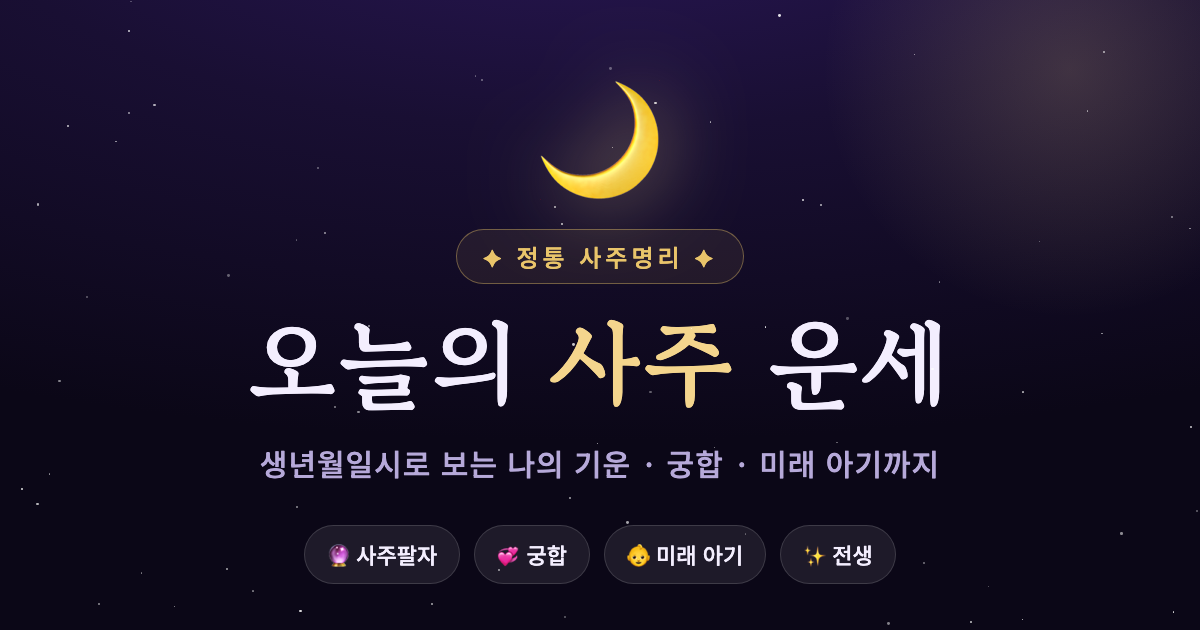
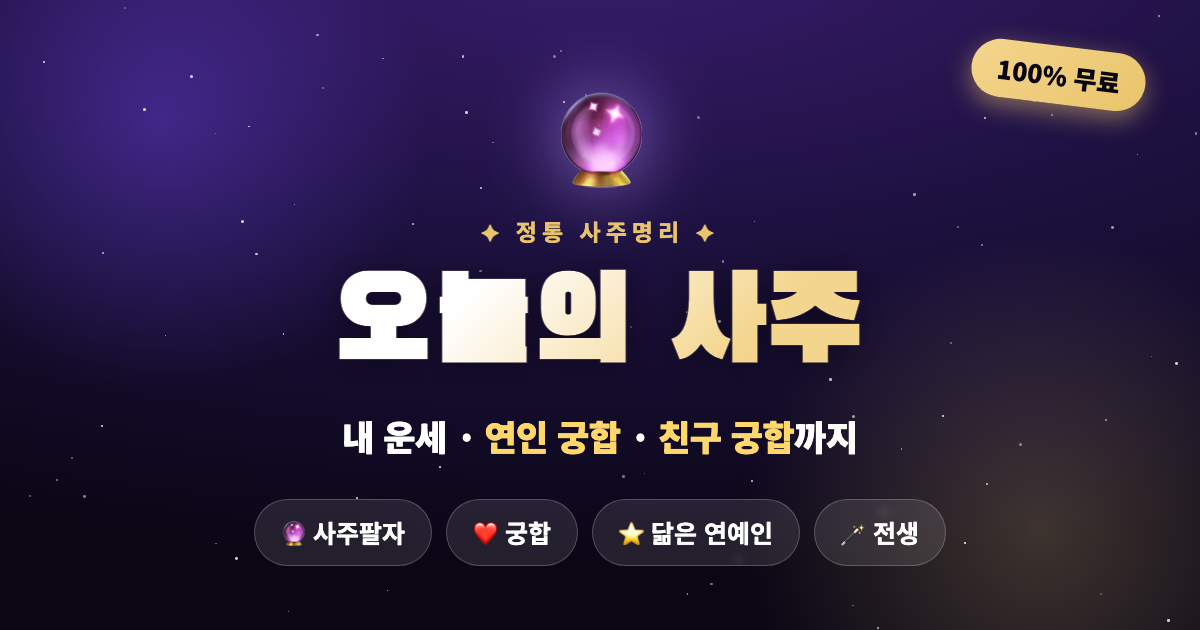
친구 궁합 추가 + 썸네일 리뉴얼
- 궁합에 연인/친구 선택 토글 추가 (친구는 우정 점수·함께할 활동, 아기/데이트 제외)
- 공유 썸네일을 더 임팩트 있게 재디자인 + 아기 문구 제거

diff --git a/index.html b/index.html
@@ -11,7 +11,7 @@
 <meta property="og:site_name" content="오늘의 사주 운세" />
 <meta property="og:title" content="오늘의 사주 운세 🌙 사주·궁합·미래 아기까지" />
 <meta property="og:description" content="생년월일시로 보는 정통 사주! 나의 기운, 연인 궁합, 결혼하면 낳을 아기 성격과 이름까지 무료로 확인하세요." />
-<meta property="og:image" content="https://hwangbbi7262-png.github.io/saju-fortune/og.png?v=1" />
+<meta property="og:image" content="https://hwangbbi7262-png.github.io/saju-fortune/og.png?v=2" />
 <meta property="og:image:width" content="1200" />
 <meta property="og:image:height" content="630" />
 <meta property="og:url" content="https://hwangbbi7262-png.github.io/saju-fortune/" />
@@ -20,7 +20,7 @@
 <meta name="twitter:card" content="summary_large_image" />
 <meta name="twitter:title" content="오늘의 사주 운세 🌙 사주·궁합·미래 아기까지" />
 <meta name="twitter:description" content="생년월일시로 보는 정통 사주! 나의 기운, 궁합, 미래 아기까지 무료로." />
-<meta name="twitter:image" content="https://hwangbbi7262-png.github.io/saju-fortune/og.png?v=1" />
+<meta name="twitter:image" content="https://hwangbbi7262-png.github.io/saju-fortune/og.png?v=2" />
 <link rel="preconnect" href="https://fonts.googleapis.com" />
 <link rel="preconnect" href="https://fonts.gstatic.com" crossorigin />
 <link href="https://fonts.googleapis.com/css2?family=Gowun+Batang:wght@400;700&family=Noto+Sans+KR:wght@300;400;500;700;900&display=swap" rel="stylesheet" />
@@ -342,7 +342,11 @@
       <div class="hint" id="calHint">※ 사주는 양력 기준으로 계산됩니다. 음력 생일은 양력으로 변환 후 입력하면 더 정확해요.</div>
 
       <div class="personB" id="personB" style="display:none">
-        <div class="pb-title">💞 상대방 정보</div>
+        <div class="seg" id="relTypeSeg" style="margin-bottom:16px">
+          <button data-v="love" class="on">💑 연인 궁합</button>
+          <button data-v="friend">👯 친구 궁합</button>
+        </div>
+        <div class="pb-title" id="pbTitle">💞 상대방 정보</div>
         <label>상대 이름</label>
         <input id="bname" type="text" placeholder="상대 이름" maxlength="12" autocomplete="off" />
         <label>성별</label>
@@ -689,7 +693,8 @@ const BABY_NAMES={
 };
 function pick2(r,arr){ if(arr.length<=2) return arr.slice(); const i=Math.floor(r()*arr.length); let j; do{ j=Math.floor(r()*arr.length); }while(j===i); return [arr[i],arr[j]]; }
 
-function calcCompat(A,B){
+function calcCompat(A,B,relType){
+  const friend = relType==='friend';
   const elA=HS_EL[A.saju.dStem], elB=HS_EL[B.saju.dStem];
   const er=elRel(elA,elB);
   const bA=A.saju.yBranch, bB=B.saju.yBranch;
@@ -700,36 +705,56 @@ function calcCompat(A,B){
 
   const elPts={gen:30,same:24,neutral:18,ctrl:16}[er];
   const brPts={육합:28,삼합:24,충:12,none:16}[branchRel];
-  const r=mulberry32(hashStr(A.name+A.y+A.m+A.d+'x'+B.name+B.y+B.m+B.d));
+  const r=mulberry32(hashStr(A.name+A.y+A.m+A.d+'x'+B.name+B.y+B.m+B.d+relType));
   let score=30+elPts+brPts+Math.floor(r()*8);
   score=Math.max(48,Math.min(99,score));
 
+  const harmonic=er==='gen'&&(branchRel==='육합'||branchRel==='삼합');
   // 라벨/멘트
   let label,msg;
-  if(er==='gen'&&(branchRel==='육합'||branchRel==='삼합')){ label='천생연분 ✦'; msg='서로를 살리고 채워주는, 그야말로 운명의 짝이에요. 함께 있으면 둘 다 더 좋은 사람이 됩니다. 놓치면 후회할 인연.'; }
-  else if(er==='gen'){ label='서로를 키우는 사이'; msg='한쪽이 다른 쪽의 부족함을 채워주는 상생의 조합이에요. 티격태격해도 결국 서로를 성장시키는 인연입니다.'; }
-  else if(er==='same'){ label='닮은꼴 케미'; msg='기질이 비슷해 말 안 해도 통하는 편안한 사이예요. 다만 둘 다 같은 약점을 가질 수 있으니 한 명은 양보가 필요해요.'; }
-  else if(er==='ctrl'||branchRel==='충'){ label='불꽃 케미 🔥'; msg='강하게 끌리지만 그만큼 부딪히는 사이예요. 밀당의 긴장감이 매력이지만, 서로를 인정하면 누구보다 뜨거운 인연이 됩니다.'; }
-  else { label='무난한 인연'; msg='크게 튀지 않지만 노력하는 만큼 깊어지는 사이예요. 서로 배려하면 오래가는 든든한 인연이 됩니다.'; }
+  if(friend){
+    if(harmonic){ label='천생 단짝 ✦'; msg='서로를 끌어주고 채워주는 환상의 케미예요. 곁에 있으면 둘 다 더 빛나는, 평생 갈 베프입니다.'; }
+    else if(er==='gen'){ label='서로를 키우는 친구'; msg='한 명이 처지면 다른 한 명이 끌어올려주는 사이. 함께할수록 더 좋은 사람이 됩니다.'; }
+    else if(er==='same'){ label='닮은꼴 소울메이트'; msg='취향도 텐션도 척하면 척! 말 안 해도 통하는 편한 친구예요. 가끔은 서로의 거울이 되어주세요.'; }
+    else if(er==='ctrl'||branchRel==='충'){ label='애증의 케미 🔥'; msg='투닥거리면서도 안 보면 보고 싶은 사이. 자극이 되는 친구라 지루할 틈이 없어요.'; }
+    else { label='은근 오래가는 친구'; msg='요란하진 않아도 꾸준히 곁을 지키는 진국 우정이에요. 노력한 만큼 깊어집니다.'; }
+  } else {
+    if(harmonic){ label='천생연분 ✦'; msg='서로를 살리고 채워주는, 그야말로 운명의 짝이에요. 함께 있으면 둘 다 더 좋은 사람이 됩니다. 놓치면 후회할 인연.'; }
+    else if(er==='gen'){ label='서로를 키우는 사이'; msg='한쪽이 다른 쪽의 부족함을 채워주는 상생의 조합이에요. 티격태격해도 결국 서로를 성장시키는 인연입니다.'; }
+    else if(er==='same'){ label='닮은꼴 케미'; msg='기질이 비슷해 말 안 해도 통하는 편안한 사이예요. 다만 둘 다 같은 약점을 가질 수 있으니 한 명은 양보가 필요해요.'; }
+    else if(er==='ctrl'||branchRel==='충'){ label='불꽃 케미 🔥'; msg='강하게 끌리지만 그만큼 부딪히는 사이예요. 밀당의 긴장감이 매력이지만, 서로를 인정하면 누구보다 뜨거운 인연이 됩니다.'; }
+    else { label='무난한 인연'; msg='크게 튀지 않지만 노력하는 만큼 깊어지는 사이예요. 서로 배려하면 오래가는 든든한 인연이 됩니다.'; }
+  }
 
-  // 커플 별명
+  // 관계 별명
   let coupleNick;
-  if(er==='gen'&&(branchRel==='육합'||branchRel==='삼합')) coupleNick='환상의 천생연분 커플 💞';
-  else if(er==='gen') coupleNick='서로를 키우는 성장 커플 🌱';
-  else if(er==='same') coupleNick='찰떡같은 닮은꼴 커플 🍒';
-  else if(er==='ctrl'||branchRel==='충') coupleNick='불꽃 튀는 밀당 커플 🔥';
-  else coupleNick='은근히 잘 맞는 무던 커플 ☕';
+  if(friend){
+    if(harmonic) coupleNick='천생 단짝 베프 👯';
+    else if(er==='gen') coupleNick='서로 채워주는 성장 친구 🌱';
+    else if(er==='same') coupleNick='소울메이트급 닮은꼴 친구 🍒';
+    else if(er==='ctrl'||branchRel==='충') coupleNick='티격태격 정드는 애증 친구 🔥';
+    else coupleNick='편하게 오래가는 무던 친구 ☕';
+  } else {
+    if(harmonic) coupleNick='환상의 천생연분 커플 💞';
+    else if(er==='gen') coupleNick='서로를 키우는 성장 커플 🌱';
+    else if(er==='same') coupleNick='찰떡같은 닮은꼴 커플 🍒';
+    else if(er==='ctrl'||branchRel==='충') coupleNick='불꽃 튀는 밀당 커플 🔥';
+    else coupleNick='은근히 잘 맞는 무던 커플 ☕';
+  }
 
   // 세부 궁합 점수
   const isGen=er==='gen', isSame=er==='same', isCtrl=er==='ctrl';
   const yh=branchRel==='육합', sh=branchRel==='삼합', ch=branchRel==='충';
   function sub(bias){ return Math.max(45,Math.min(99, Math.round(score*0.55 + 22 + bias + (r()*12-6)))); }
+  const subLabels = friend
+    ? ['첫인상','성격 궁합','텐션 · 케미','대화 · 소통','의리 · 오래감']
+    : ['첫인상 · 끌림','성격 궁합','애정 · 설렘','대화 · 소통','장기 · 결혼운'];
   const subScores=[
-    {label:'첫인상 · 끌림', score:sub((isCtrl?10:isGen?5:isSame?-2:-4)+(ch?6:0))},
-    {label:'성격 궁합',    score:sub(isSame?10:isGen?5:isCtrl?-6:0)},
-    {label:'애정 · 설렘',  score:sub((isGen?7:0)+(yh?6:0)+(isCtrl?5:0))},
-    {label:'대화 · 소통',  score:sub((isSame?8:0)+(yh?5:0)+(isGen?2:0)+(ch?-6:0))},
-    {label:'장기 · 결혼운', score:sub((isGen?7:0)+(sh?6:0)+(yh?5:0)+((isCtrl||ch)?-9:0))}
+    {label:subLabels[0], score:sub((isCtrl?10:isGen?5:isSame?-2:-4)+(ch?6:0))},
+    {label:subLabels[1], score:sub(isSame?10:isGen?5:isCtrl?-6:0)},
+    {label:subLabels[2], score:sub((isGen?7:0)+(yh?6:0)+(isCtrl?5:0))},
+    {label:subLabels[3], score:sub((isSame?8:0)+(yh?5:0)+(isGen?2:0)+(ch?-6:0))},
+    {label:subLabels[4], score:sub((isGen?7:0)+(sh?6:0)+(yh?5:0)+((isCtrl||ch)?-9:0))}
   ];
 
   // 잘 맞는 점 / 조심할 점
@@ -749,32 +774,41 @@ function calcCompat(A,B){
   const cautions=CAUTION[er].slice();
   if(ch) cautions.push('말다툼이 잦을 수 있으니 한 박자 쉬어가기');
 
-  // 일간 케미 + 각자 연애 스타일
+  // 일간 케미 + 각자 스타일
   const igA=ILGAN[A.saju.dStem], igB=ILGAN[B.saju.dStem];
   const relLine={gen:'서로의 기운을 북돋우는 상생의 만남',same:'같은 결을 가진 닮은꼴의 만남',ctrl:'서로를 단단하게 만드는 자극의 만남',neutral:'천천히 알아갈수록 깊어지는 만남'}[er];
   const chem=`‘${igA.nick}’ 같은 ${A.name} 님과 ‘${igB.nick}’ 같은 ${B.name} 님. ${relLine}이에요.`;
+  const styleA = friend ? `${A.name} 님은 ${igA.kw.join('·')}의 매력을 지닌 친구예요.` : igA.love;
+  const styleB = friend ? `${B.name} 님은 ${igB.kw.join('·')}의 매력을 지닌 친구예요.` : igB.love;
+  const styleTitle = friend ? '이런 친구예요' : '연애 스타일';
 
-  // 추천 데이트 & 조언
+  // 추천 활동 & 조언
   const DATE_SPOT=['분위기 좋은 루프탑·야경 명소','조용한 미술관·전시 데이트','벚꽃/단풍 명소 산책','바닷가 드라이브','감성 카페 투어','놀이공원에서 신나게','맛집 탐방 + 야시장','한적한 근교 당일치기'];
-  const datePlace=DATE_SPOT[Math.floor(r()*DATE_SPOT.length)];
-  const advice={gen:'지금처럼 서로를 아끼면 오래도록 빛날 인연이에요.',same:'비슷한 만큼, 가끔은 서로의 다름을 즐겨보세요.',ctrl:'뜨거운 만큼 식기도 쉬워요. 말로 자주 사랑을 확인하세요.',neutral:'작은 표현 하나가 이 인연을 특별하게 만듭니다.'}[er];
+  const FRIEND_SPOT=['카페에서 수다 삼매경','맛집 탐방 + 디저트 투어','노래방에서 스트레스 풀기','전시·팝업 같이 구경','캠핑·여행 같이 떠나기','운동·등산 함께하기','쇼핑하며 하루 보내기','맥주 한잔 with 깊은 대화'];
+  const activity=(friend?FRIEND_SPOT:DATE_SPOT)[Math.floor(r()*(friend?FRIEND_SPOT:DATE_SPOT).length)];
+  const advice= friend
+    ? {gen:'서로를 응원하는 지금처럼이면 평생 갈 우정이에요.',same:'너무 비슷해 가끔 부딪혀도, 그게 진짜 친구라는 증거예요.',ctrl:'투닥거려도 결국 찾게 되는 사이. 솔직함이 우정을 지켜요.',neutral:'먼저 연락하는 한 명이 이 우정을 오래 가게 만들어요.'}[er]
+    : {gen:'지금처럼 서로를 아끼면 오래도록 빛날 인연이에요.',same:'비슷한 만큼, 가끔은 서로의 다름을 즐겨보세요.',ctrl:'뜨거운 만큼 식기도 쉬워요. 말로 자주 사랑을 확인하세요.',neutral:'작은 표현 하나가 이 인연을 특별하게 만듭니다.'}[er];
 
-  // 미래 아기 — 부모 두 오행 합성
-  const GEN_EL={목:'화',화:'토',토:'금',금:'수',수:'목'};
-  const babyCand=[elA,elB,GEN_EL[elA],GEN_EL[elB]];
-  const babyEl=babyCand[Math.floor(r()*babyCand.length)];
-  const bb=BABY[babyEl];
-  const lookLike=r()<0.5?A.name:B.name;
-  const persLike=lookLike===A.name?B.name:A.name;
-  const taemyung=bb.names[Math.floor(r()*bb.names.length)];
-  const bn=BABY_NAMES[babyEl];
-  const boyNames=pick2(r,bn.boy), girlNames=pick2(r,bn.girl);
-  const baby={el:babyEl, nick:bb.nick, emo:bb.emo, temper:bb.temper, talent:bb.talent, caution:bb.caution, care:bb.care, lookLike, persLike, taemyung, boyNames, girlNames};
+  // 미래 아기 — 연인 궁합에서만
+  let baby=null;
+  if(!friend){
+    const GEN_EL={목:'화',화:'토',토:'금',금:'수',수:'목'};
+    const babyCand=[elA,elB,GEN_EL[elA],GEN_EL[elB]];
+    const babyEl=babyCand[Math.floor(r()*babyCand.length)];
+    const bb=BABY[babyEl];
+    const lookLike=r()<0.5?A.name:B.name;
+    const persLike=lookLike===A.name?B.name:A.name;
+    const taemyung=bb.names[Math.floor(r()*bb.names.length)];
+    const bn=BABY_NAMES[babyEl];
+    const boyNames=pick2(r,bn.boy), girlNames=pick2(r,bn.girl);
+    baby={el:babyEl, nick:bb.nick, emo:bb.emo, temper:bb.temper, talent:bb.talent, caution:bb.caution, care:bb.care, lookLike, persLike, taemyung, boyNames, girlNames};
+  }
 
   const detail=[];
   detail.push({t:'오행 궁합', v:`${A.name}(${elA}) · ${B.name}(${elB}) → ${er==='gen'?'상생(서로 살림) ✨':er==='same'?'비화(닮은꼴)':er==='ctrl'?'상극(끌림과 긴장) 🔥':'평이한 관계'}`});
   detail.push({t:'띠 궁합', v: branchRel==='육합'?'육합 — 찰떡같이 잘 맞는 환상의 짝 💞':branchRel==='삼합'?'삼합 — 함께하면 일이 잘 풀리는 길한 조합 🍀':branchRel==='충'?'상충 — 스파크 튀지만 정드는 사이 ⚡':'무난한 띠 조합'});
-  return {score,label,msg,coupleNick,subScores,merits,cautions,chem,aLove:igA.love,bLove:igB.love,datePlace,advice,baby,detail,elA,elB};
+  return {relType,friend,score,label,msg,coupleNick,subScores,merits,cautions,chem,styleA,styleB,styleTitle,activity,advice,baby,detail,elA,elB};
 }
 
 /* ============================================================
@@ -1073,12 +1107,12 @@ function renderCompat(A,B,c){
   return `
   <div class="rcard" id="capture">
     <div class="rhead reveal" style="animation-delay:.05s">
-      <div class="who">✦ 두 사람의 사주 궁합 ✦</div>
-      <h2>${A.name} 💞 ${B.name}</h2>
+      <div class="who">✦ 두 사람의 ${c.friend?'우정':'사주'} 궁합 ✦</div>
+      <h2>${A.name} ${c.friend?'👯':'💞'} ${B.name}</h2>
     </div>
     <div class="compat-top reveal" style="animation-delay:.12s">
       <div class="cp"><div class="orb2" style="background:radial-gradient(circle at 35% 30%,${za.bg},#1c1238 120%)"><div class="em">${za.face}</div></div><div class="cnm">${A.name}</div><div class="czd">${zoa}띠 · ${starA}</div></div>
-      <div class="vs">♥</div>
+      <div class="vs">${c.friend?'🤝':'♥'}</div>
       <div class="cp"><div class="orb2" style="background:radial-gradient(circle at 35% 30%,${zb.bg},#1c1238 120%)"><div class="em">${zb.face}</div></div><div class="cnm">${B.name}</div><div class="czd">${zob}띠 · ${starB}</div></div>
     </div>
     <div class="compat-score reveal" style="animation-delay:.22s">
@@ -1090,7 +1124,7 @@ function renderCompat(A,B,c){
     <div class="compat-msg reveal" style="animation-delay:.32s">${c.msg}</div>
 
     <div class="reveal" style="animation-delay:.4s; margin-top:24px">
-      <h3 class="sec-t">세부 궁합 점수</h3>
+      <h3 class="sec-t">${c.friend?'세부 우정 점수':'세부 궁합 점수'}</h3>
       <div class="scores">
         ${c.subScores.map(s=>`<div class="score-item">
           <div class="sl"><div class="l">${s.label}</div><div class="n">${s.score}점</div></div>
@@ -1102,12 +1136,12 @@ function renderCompat(A,B,c){
       <h3 class="sec-t">두 사람의 케미</h3>
       <div class="chem-box">${c.chem}</div>
       <div class="love-styles">
-        <div class="ls-row"><div class="ls-n">${A.name}</div><div class="ls-v">${c.aLove}</div></div>
-        <div class="ls-row"><div class="ls-n">${B.name}</div><div class="ls-v">${c.bLove}</div></div>
+        <div class="ls-row"><div class="ls-n">${A.name}</div><div class="ls-v">${c.styleA}</div></div>
+        <div class="ls-row"><div class="ls-n">${B.name}</div><div class="ls-v">${c.styleB}</div></div>
       </div>
     </div>
 
-    <div class="baby-box reveal" style="animation-delay:.56s">
+    ${c.baby ? `<div class="baby-box reveal" style="animation-delay:.56s">
       <div class="bb-title">👶 두 사람이 결혼해서 아이를 낳는다면</div>
       <span class="bb-emo">${c.baby.emo}</span>
       <div class="bb-nick">「${c.baby.nick}」 같은 아이</div>
@@ -1133,7 +1167,7 @@ function renderCompat(A,B,c){
         </div>
       </div>
       <div class="taemyung">추천 태명 · ${c.baby.taemyung} 🐣</div>
-    </div>
+    </div>` : ''}
 
     <div class="reveal" style="animation-delay:.62s; margin-top:24px">
       <h3 class="sec-t">잘 맞는 점 · 조심할 점</h3>
@@ -1149,12 +1183,12 @@ function renderCompat(A,B,c){
         ${c.detail.map(d=>`<div class="cd-row"><div class="cdt">${d.t}</div><div class="cdv">${d.v}</div></div>`).join('')}
       </div>
       <div class="date-advice">
-        <div class="cd-row"><div class="cdt">💖 추천 데이트</div><div class="cdv">${c.datePlace}</div></div>
+        <div class="cd-row"><div class="cdt">${c.friend?'🤝 함께하면 좋은 것':'💖 추천 데이트'}</div><div class="cdv">${c.activity}</div></div>
         <div class="cd-row"><div class="cdt">✨ 두 사람에게</div><div class="cdv">${c.advice}</div></div>
       </div>
     </div>
 
-    <div class="brand" style="margin-top:22px">🌙 오늘의 사주 궁합</div>
+    <div class="brand" style="margin-top:22px">🌙 오늘의 사주 ${c.friend?'우정 궁합':'궁합'}</div>
   </div>
   <div class="actions reveal" style="animation-delay:.5s">
     <button class="btn-save" id="saveBtn">📸 이미지 저장</button>
@@ -1194,14 +1228,26 @@ $('#bGenderSeg').querySelectorAll('button').forEach(b=>b.addEventListener('click
 
 // 모드 탭 (내 사주 / 궁합)
 let mode='solo';
+let relType='love';
+function updateGoBtn(){
+  if(mode!=='love'){ $('#goBtn').textContent='내 사주 보기 ✦'; return; }
+  $('#goBtn').textContent = relType==='friend' ? '친구 궁합 보기 👯' : '연인 궁합 보기 💞';
+}
 $('#modeTabs').querySelectorAll('button').forEach(b=>b.addEventListener('click',()=>{
   $('#modeTabs').querySelectorAll('button').forEach(x=>x.classList.remove('on'));
   b.classList.add('on'); mode=b.dataset.mode;
   const love=mode==='love';
   $('#personB').style.display=love?'block':'none';
   $('#nameLabel').textContent=love?'내 이름':'이름';
-  $('#goBtn').textContent=love?'궁합 보기 💞':'내 사주 보기 ✦';
+  updateGoBtn();
   $('#err').textContent='';
+}));
+// 연인 / 친구 선택
+$('#relTypeSeg').querySelectorAll('button').forEach(b=>b.addEventListener('click',()=>{
+  $('#relTypeSeg').querySelectorAll('button').forEach(x=>x.classList.remove('on'));
+  b.classList.add('on'); relType=b.dataset.v;
+  $('#pbTitle') && ($('#pbTitle').textContent = relType==='friend'?'👯 친구 정보':'💞 상대방 정보');
+  updateGoBtn();
 }));
 
 function validPerson(name,y,m,d,err){
@@ -1249,8 +1295,11 @@ $('#goBtn').addEventListener('click',()=>{
     if(!validPerson(bname,by,bm,bd,err)) return;
     const bsaju=calcSaju(by,bm,bd,bhour);
     const B={name:bname,gender:state.bGender,cal:'양',y:by,m:bm,d:bd,saju:bsaju,hourBranch:bhour};
-    const compat=calcCompat(A,B);
-    showLoading(['두 사람의 사주를 맞춰보는 중…','오행의 어울림을 살피는 중…','띠의 합과 충을 보는 중…','인연의 깊이를 재는 중…'],()=>{
+    const compat=calcCompat(A,B,relType);
+    const loadMsgs = relType==='friend'
+      ? ['두 사람의 사주를 맞춰보는 중…','우정의 케미를 살피는 중…','띠의 합과 충을 보는 중…','인연의 깊이를 재는 중…']
+      : ['두 사람의 사주를 맞춰보는 중…','오행의 어울림을 살피는 중…','띠의 합과 충을 보는 중…','인연의 깊이를 재는 중…'];
+    showLoading(loadMsgs,()=>{
       const r=$('#result'); r.innerHTML=renderCompat(A,B,compat); r.classList.add('show');
       window.scrollTo({top:0,behavior:'instant'});
       setTimeout(()=>{
